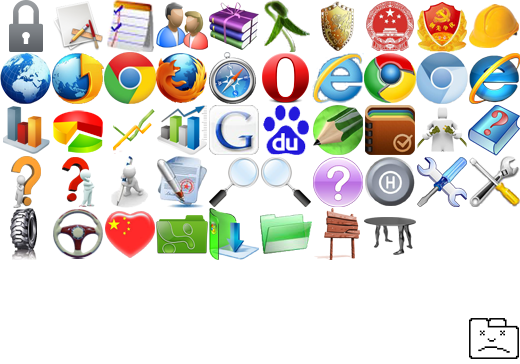
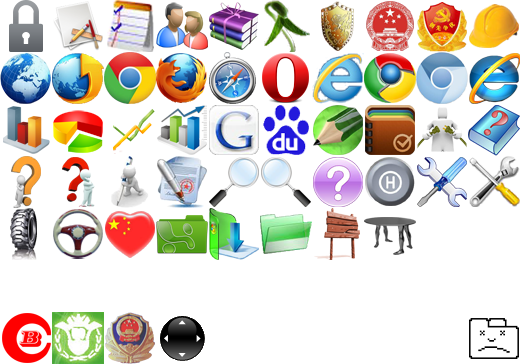
增加友情链接的图标

Changed region(s): [[0.0, 0.8462, 0.4, 1.0]]

diff --git a/libs/themes/default/desktop.css b/libs/themes/default/desktop.css
@@ -46,6 +46,7 @@ div.bc-desktop>#middle {
 	z-index: 1;
 	position: absolute;
 	width: 100%;
+	left: 0;
 	top: 35px;
 	bottom: 40px;
 	overflow: auto;
@@ -57,6 +58,7 @@ div.bc-desktop>#middle>#center {
 	right: 240px;
 	top: 0;
 	bottom: 0;
+	left: 0;
 	overflow: auto;
 	border-width: 0;
 	display: none;
